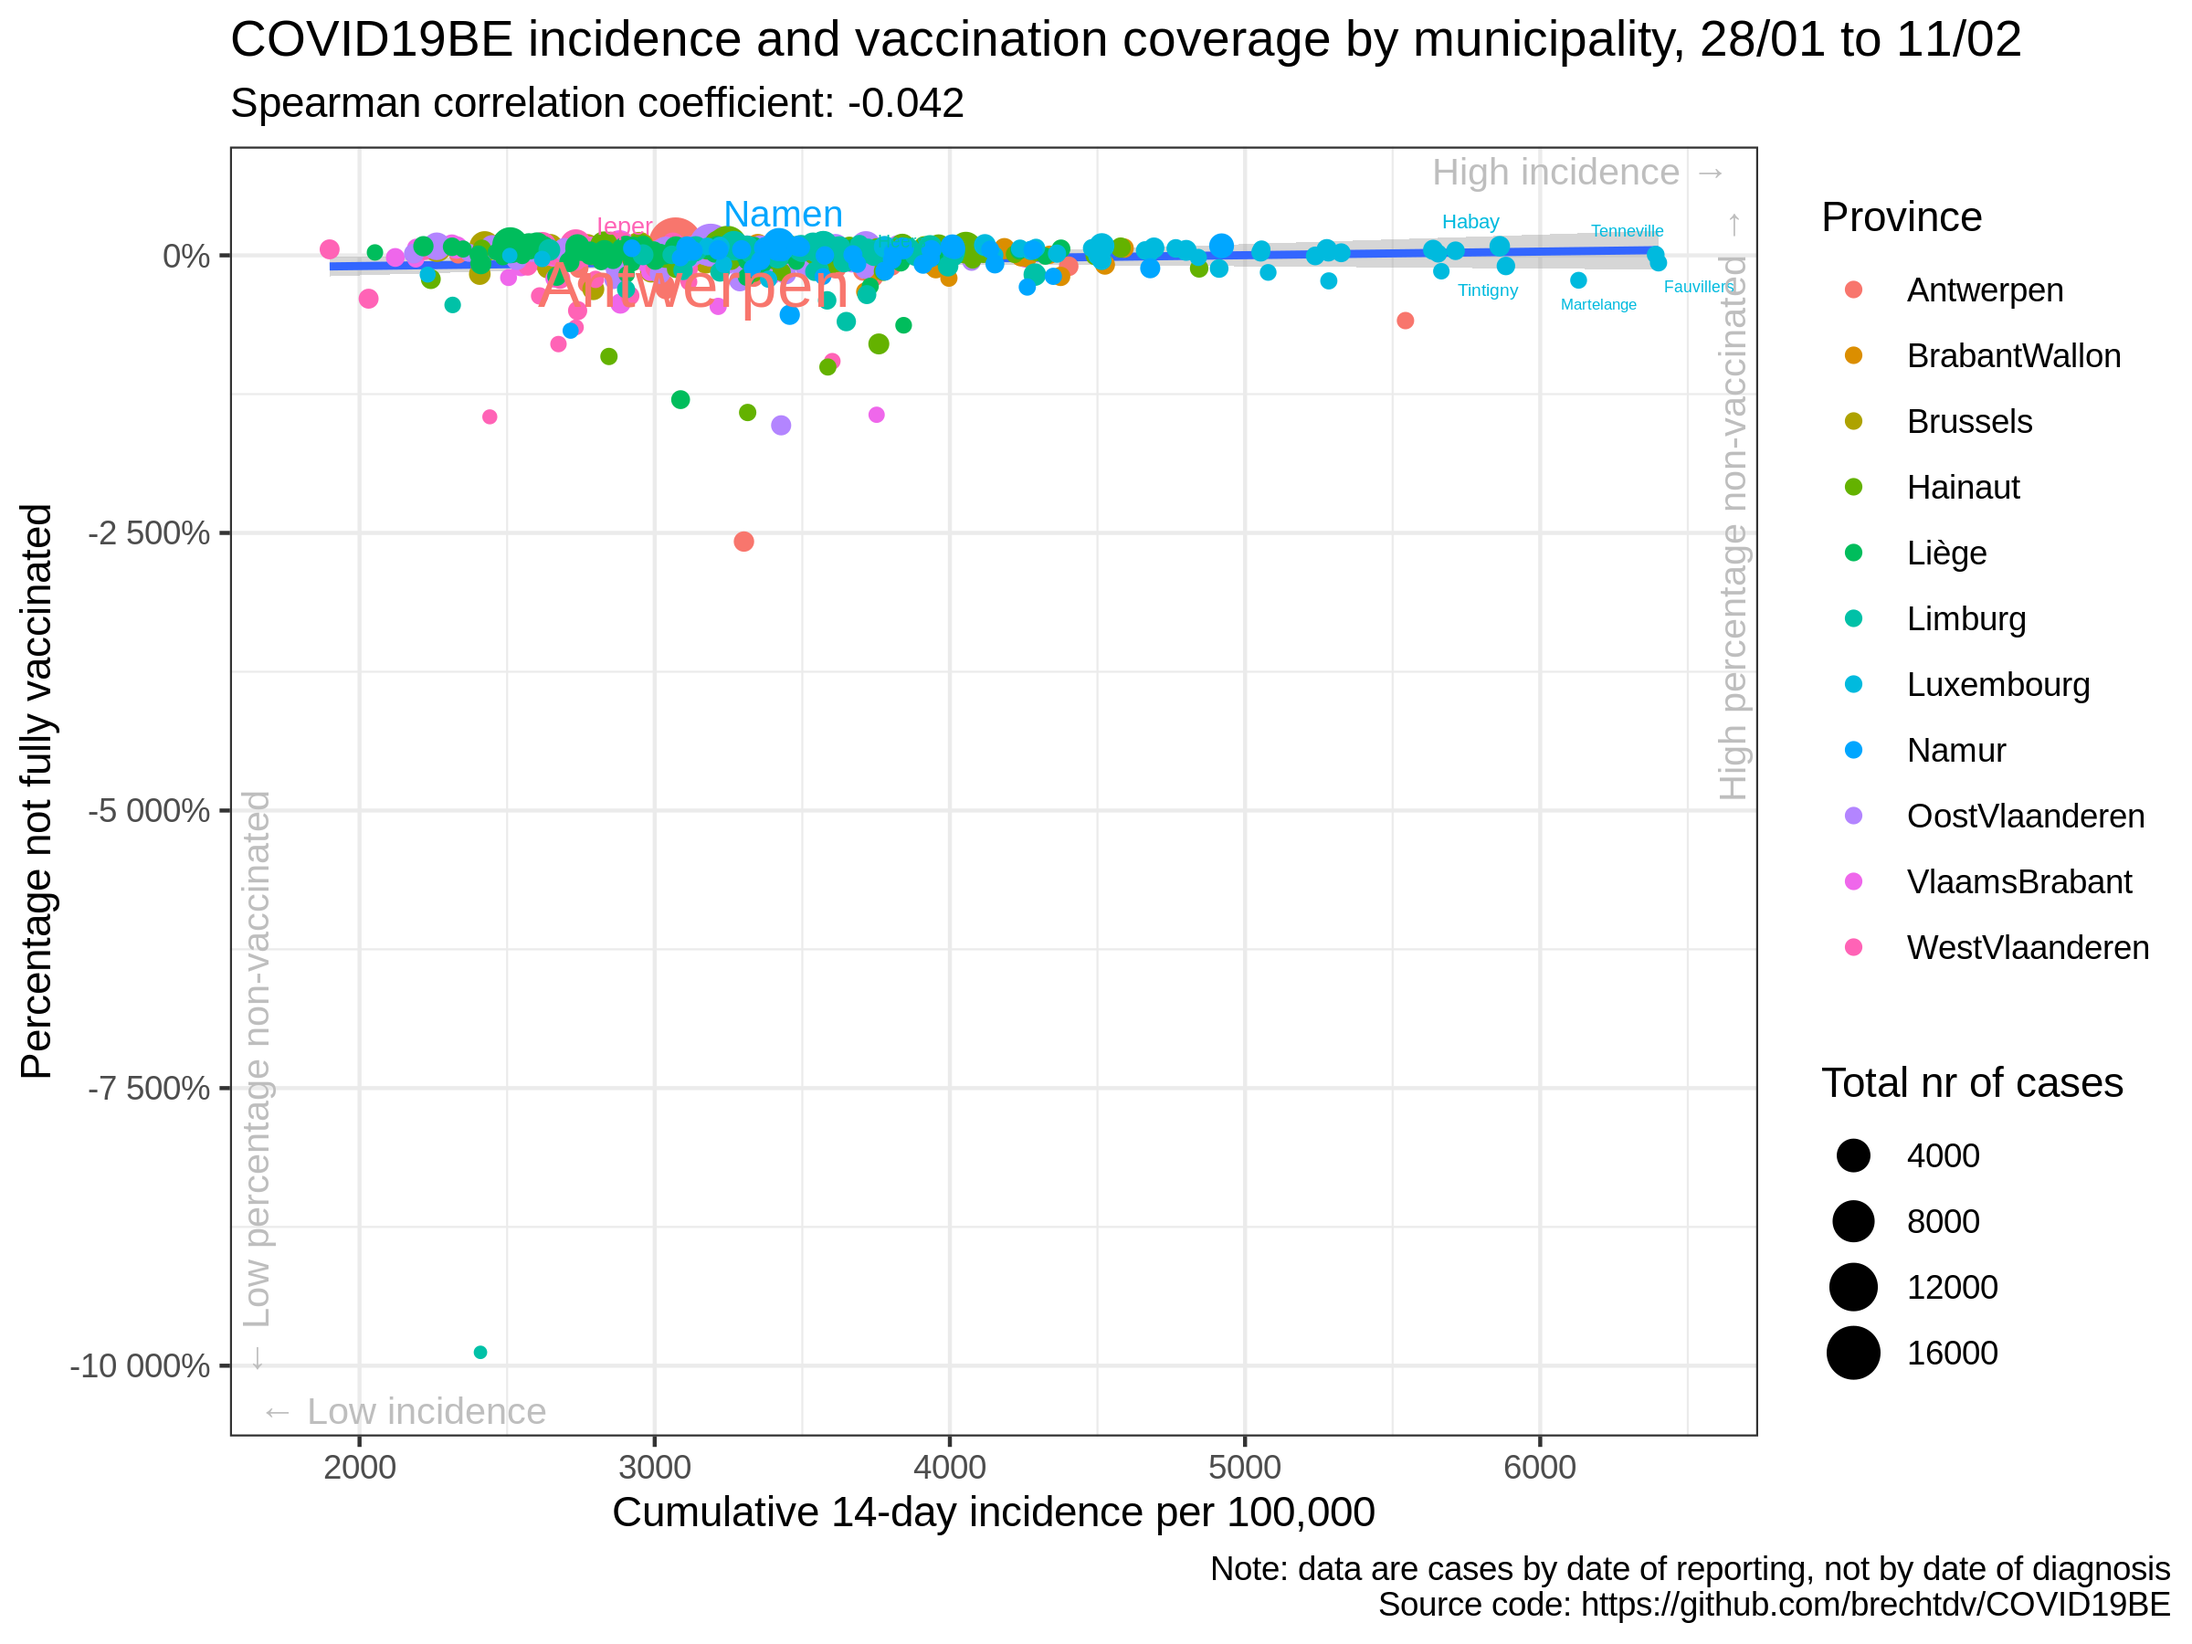
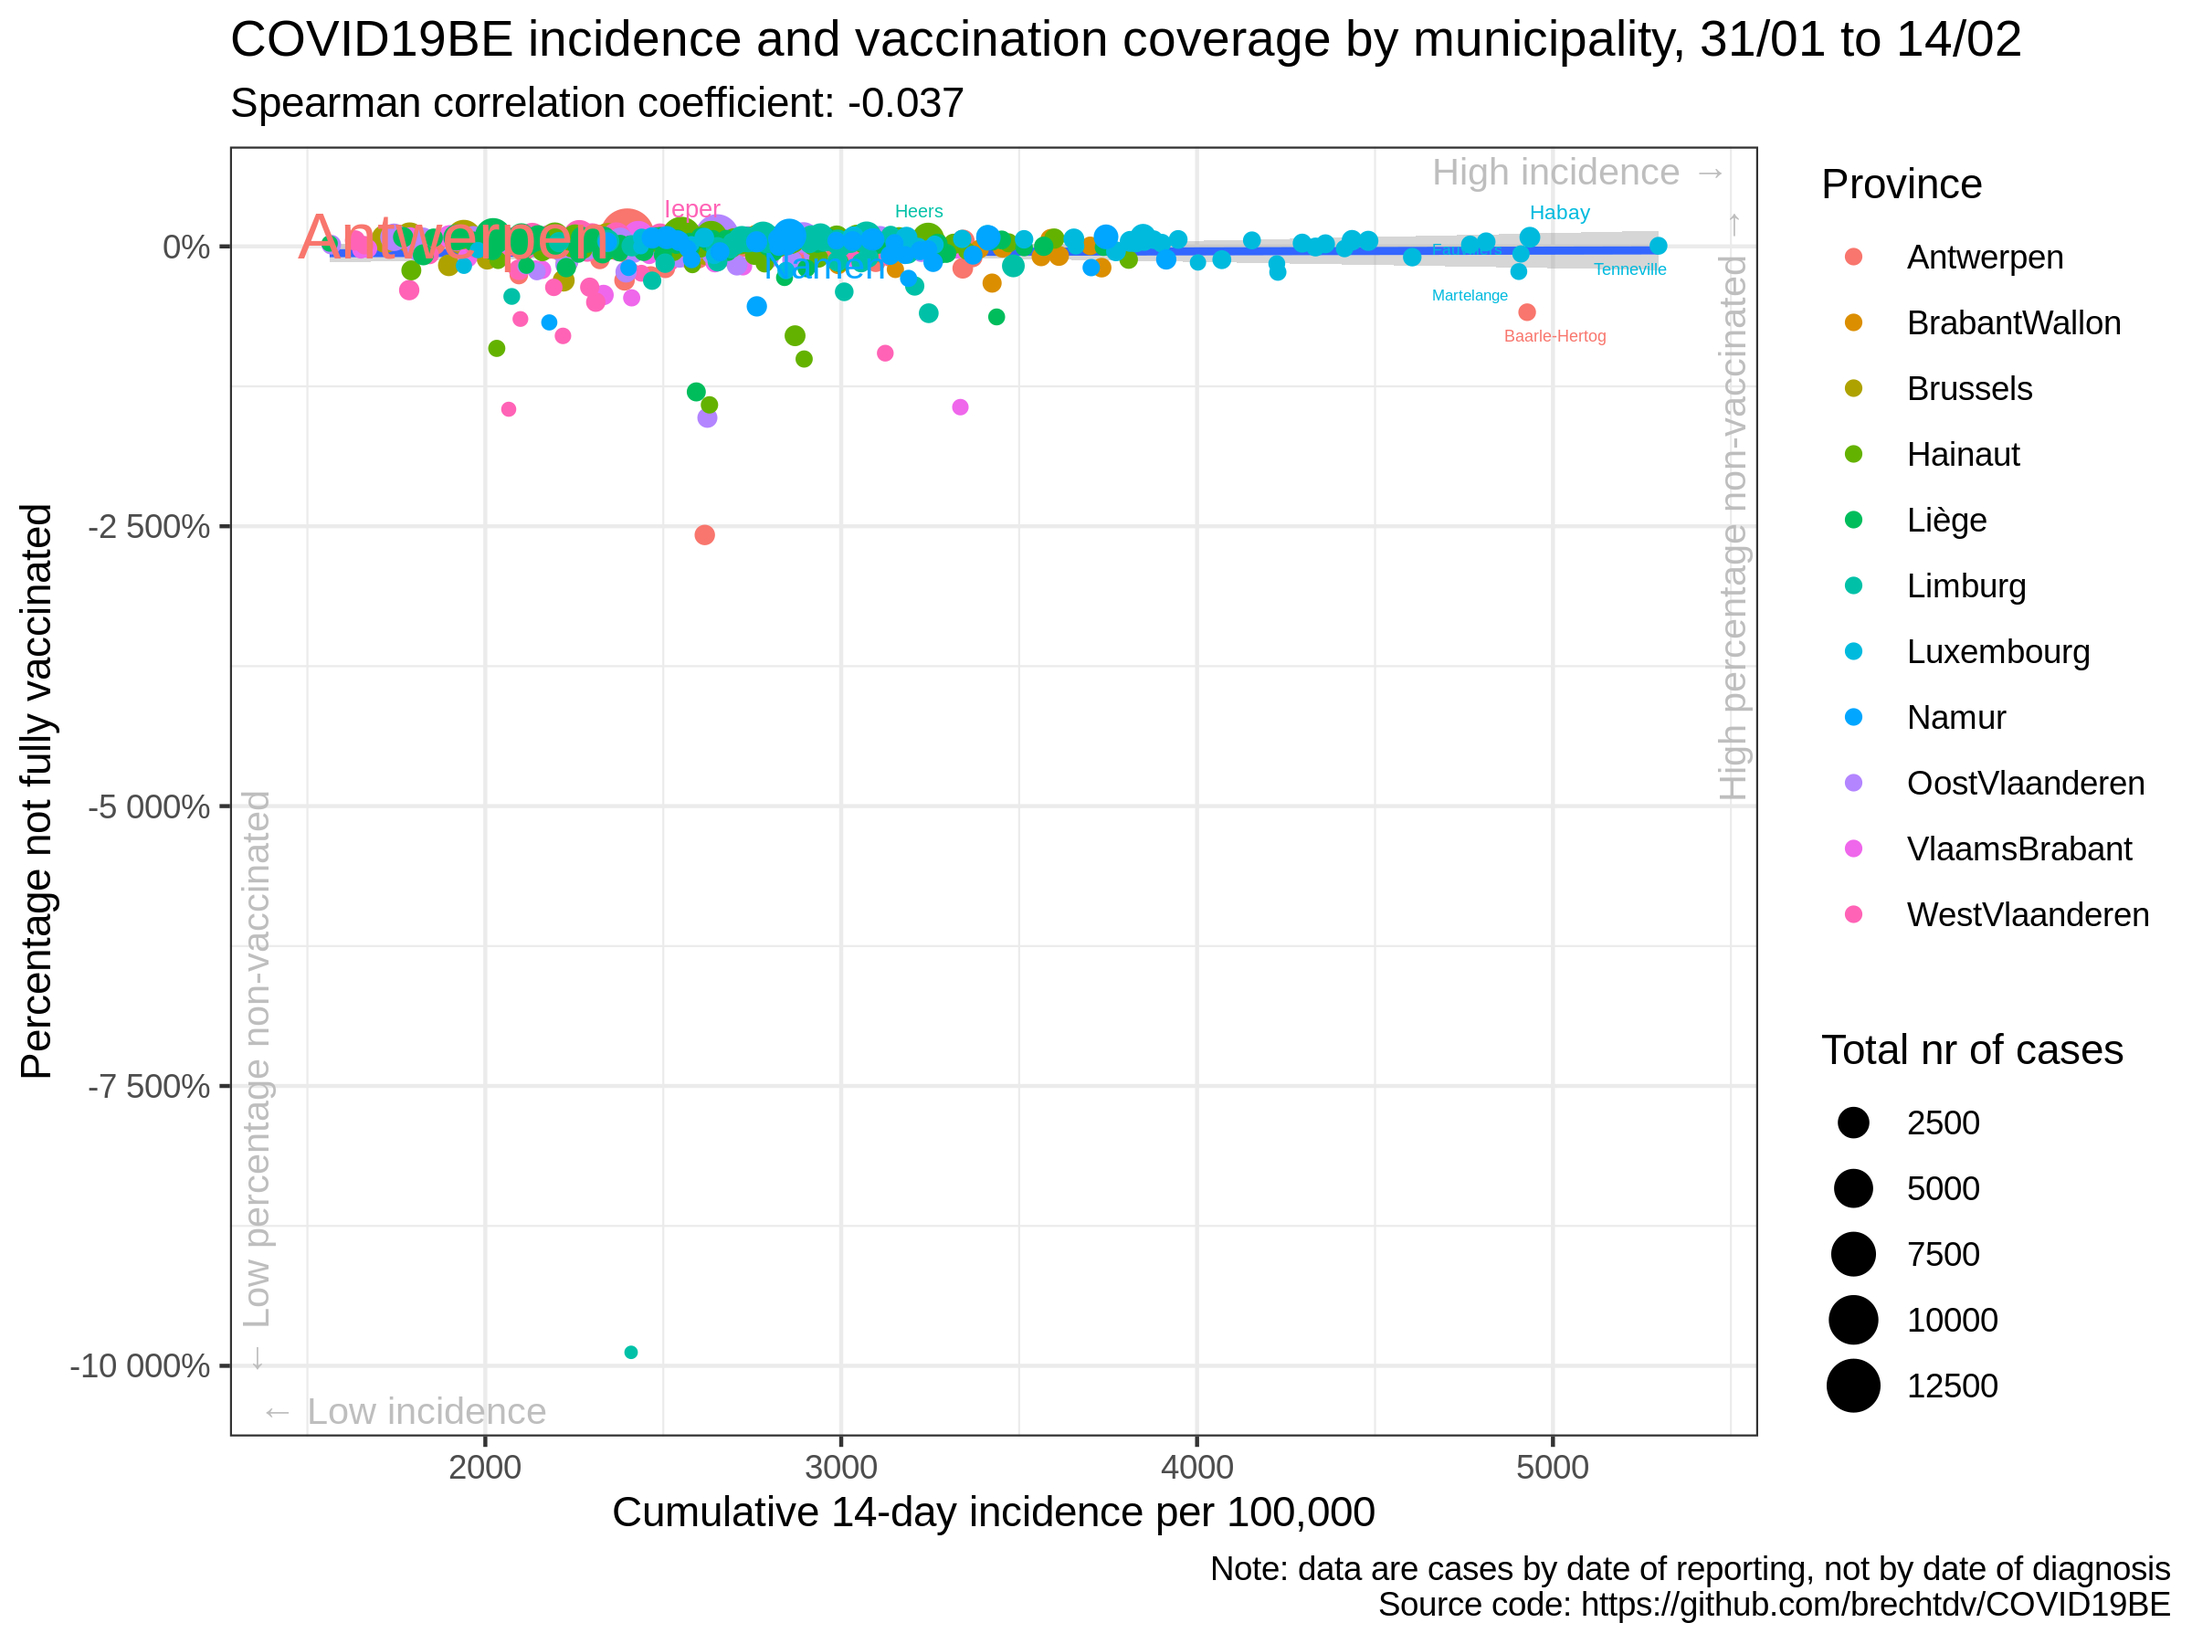
update situation

diff --git a/vaccination/README.md b/vaccination/README.md
@@ -17,35 +17,35 @@
 
 |                | estimate.rho | p.value |
 | :------------- | -----------: | ------: |
-| Antwerpen      |      \-0.101 |   0.408 |
-| BrabantWallon  |      \-0.469 |   0.014 |
-| Brussels       |      \-0.302 |   0.209 |
-| Hainaut        |      \-0.001 |   0.993 |
-| Liège          |      \-0.210 |   0.056 |
-| Limburg        |        0.070 |   0.659 |
-| Luxembourg     |      \-0.203 |   0.186 |
-| Namur          |      \-0.102 |   0.546 |
-| OostVlaanderen |      \-0.017 |   0.899 |
-| VlaamsBrabant  |      \-0.188 |   0.135 |
-| WestVlaanderen |        0.086 |   0.497 |
-| Belgium        |      \-0.042 |   0.307 |
+| Antwerpen      |      \-0.083 |   0.498 |
+| BrabantWallon  |      \-0.444 |   0.021 |
+| Brussels       |      \-0.265 |   0.272 |
+| Hainaut        |        0.007 |   0.957 |
+| Liège          |      \-0.200 |   0.068 |
+| Limburg        |      \-0.005 |   0.976 |
+| Luxembourg     |      \-0.142 |   0.357 |
+| Namur          |      \-0.038 |   0.824 |
+| OostVlaanderen |        0.093 |   0.480 |
+| VlaamsBrabant  |      \-0.201 |   0.109 |
+| WestVlaanderen |        0.126 |   0.321 |
+| Belgium        |      \-0.037 |   0.370 |
 
 ### Correlation cumulative incidence vs booster rate
 
 |                | estimate.rho | p.value |
 | :------------- | -----------: | ------: |
-| Antwerpen      |      \-0.101 |   0.409 |
-| BrabantWallon  |      \-0.470 |   0.014 |
-| Brussels       |      \-0.319 |   0.182 |
-| Hainaut        |        0.004 |   0.973 |
-| Liège          |      \-0.215 |   0.050 |
-| Limburg        |        0.064 |   0.687 |
-| Luxembourg     |      \-0.207 |   0.178 |
-| Namur          |      \-0.087 |   0.608 |
-| OostVlaanderen |      \-0.010 |   0.940 |
-| VlaamsBrabant  |      \-0.214 |   0.087 |
-| WestVlaanderen |        0.091 |   0.473 |
-| Belgium        |      \-0.029 |   0.486 |
+| Antwerpen      |      \-0.079 |   0.519 |
+| BrabantWallon  |      \-0.452 |   0.019 |
+| Brussels       |      \-0.291 |   0.226 |
+| Hainaut        |        0.015 |   0.899 |
+| Liège          |      \-0.198 |   0.071 |
+| Limburg        |      \-0.013 |   0.937 |
+| Luxembourg     |      \-0.143 |   0.353 |
+| Namur          |      \-0.030 |   0.858 |
+| OostVlaanderen |        0.098 |   0.454 |
+| VlaamsBrabant  |      \-0.233 |   0.062 |
+| WestVlaanderen |        0.128 |   0.314 |
+| Belgium        |      \-0.028 |   0.508 |
 
 ### Data source
 
